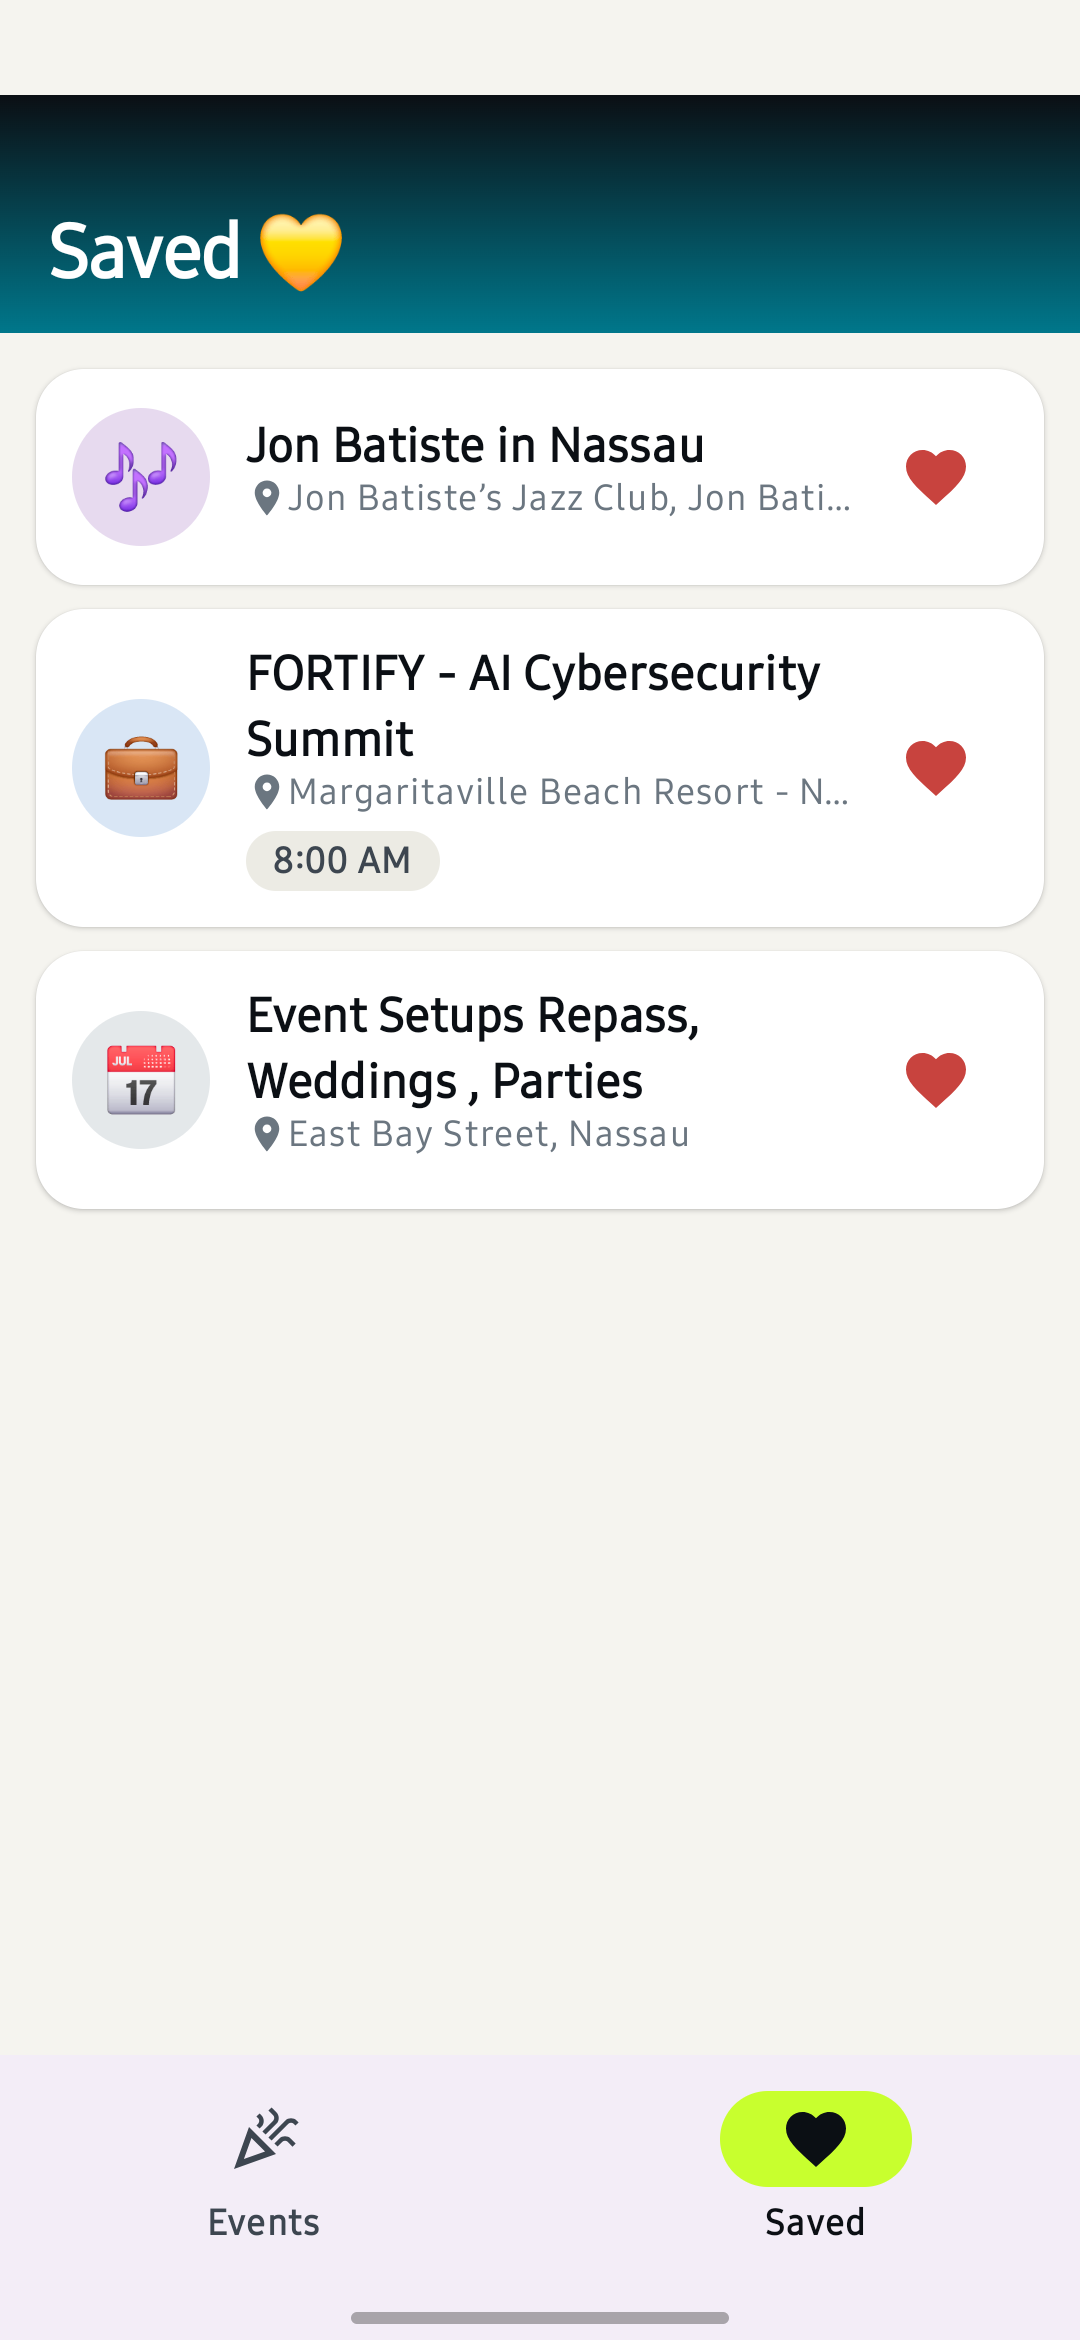
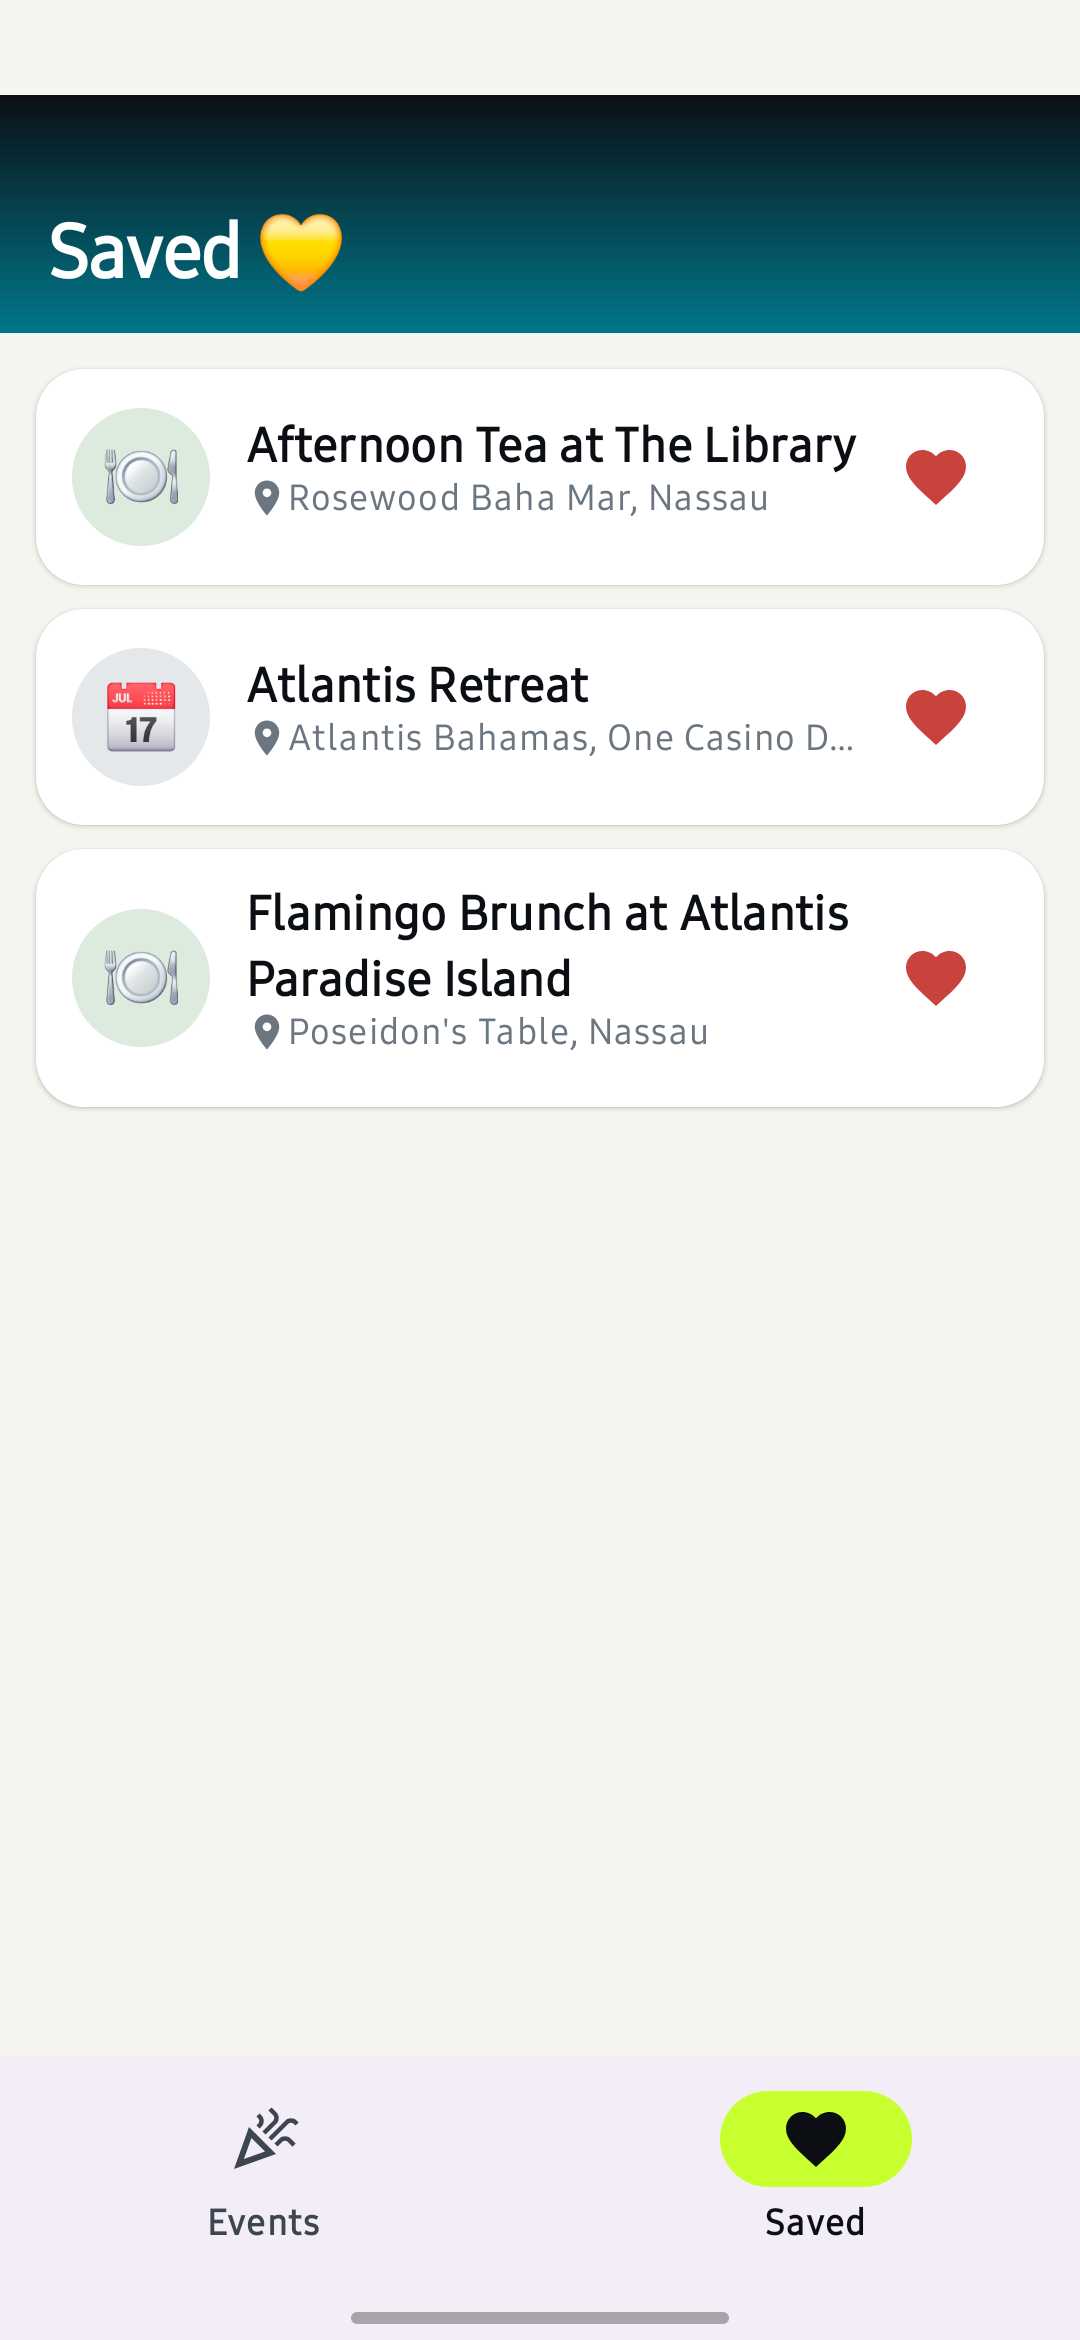
App v0.10.1 (code 14): detail page - venue row takes weight(1f) so the Directions button is no longer measured at zero width (its wrapped label stretched the row ~80 dp above and below the venue on every event, since v0.9.x); store screenshots retaken 2026-11-03 on the S24+ (Nassau feed, regatta det

diff --git a/zero_fomo/app/src/main/java/com/arctechnology/zerofomo/ui/detail/DetailScreen.kt b/zero_fomo/app/src/main/java/com/arctechnology/zerofomo/ui/detail/DetailScreen.kt
@@ -133,12 +133,17 @@ fun DetailScreen(
                 InfoRow(ev, Icons.Default.Schedule, label)
             }
             val locationTba = stringResource(R.string.detail_location_tba)
+            // The venue text must take weight(1f): without it a long venue fills
+            // the Row, the Directions button is measured at zero width, its label
+            // wraps one character per line and the invisible button stretches the
+            // row by ~80 dp above and below the venue (v0.10.0 detail-page gaps).
             Row(verticalAlignment = Alignment.CenterVertically) {
                 InfoRow(ev, Icons.Default.LocationOn,
                     listOfNotNull(
                         ev.venue.ifBlank { null },
                         ev.island?.displayName).joinToString(" · ")
-                        .ifBlank { locationTba })
+                        .ifBlank { locationTba },
+                    modifier = Modifier.weight(1f))
                 if (ev.venue.isNotBlank()) {
                     Spacer(Modifier.width(4.dp))
                     TextButton(onClick = {
@@ -292,8 +297,8 @@ private fun HeroHeader(
 
 @Composable
 private fun InfoRow(event: Event, icon: androidx.compose.ui.graphics.vector.ImageVector,
-                    text: String) {
-    Row(verticalAlignment = Alignment.CenterVertically,
+                    text: String, modifier: Modifier = Modifier) {
+    Row(modifier, verticalAlignment = Alignment.CenterVertically,
         horizontalArrangement = Arrangement.spacedBy(10.dp)) {
         Box(
             Modifier

diff --git a/docs/PLAY_CONSOLE_CHECKLIST.md b/docs/PLAY_CONSOLE_CHECKLIST.md
@@ -151,7 +151,7 @@ App, Free. Declarations: no ads; not designed for children; no government app.
 |---|---|
 | App icon 512×512 | `store/graphics/icon-512.png` |
 | Feature graphic 1024×500 | `store/graphics/feature-graphic-1024x500.png` |
-| Phone screenshots (4) | `store/graphics/screenshots/phone/` (Galaxy S24+, 1080×2340) |
+| Phone screenshots (4) | `store/graphics/screenshots/phone/` (Galaxy S24+, 1080×2340; retaken 2026-11-03 on v0.10.1: Nassau feed, regatta detail, weekend filter, Saved) |
 | Title | `store/listing/en-US/title.txt` |
 | Short description | `store/listing/en-US/short_description.txt` |
 | Full description | `store/listing/en-US/full_description.txt` |
@@ -224,11 +224,11 @@ Data types to declare (leave every other type unchecked):
 - [x] Listing copy (refreshed 2026-10-30 for v0.10.0: 46 markets across the
       Bahamas, Caribbean, Florida/Atlanta, Mexico and Central America; six
       languages; adaptive scope).
-- [x] v0.10.0 (versionCode 13) tagged 2026-10-30 -> CI signed AAB on the GitHub
-      Release (first upload is by hand; see §8).
-- [x] Phone screenshots (4, Galaxy S24+, 1080×2340) retaken 2026-09-16 on
-      v0.9.0 with the Bahamas country theme (Nassau feed, detail, weekend
-      filter, saved); status bar strip flattened.
+- [x] v0.10.1 (versionCode 14) tagged 2026-11-03 -> CI signed AAB on the GitHub
+      Release (first upload is by hand; see §8). Supersedes v0.10.0.
+- [x] Phone screenshots (4, Galaxy S24+, 1080×2340) retaken 2026-11-03 on
+      v0.10.1 with the Bahamas country theme (Nassau feed, regatta detail,
+      weekend filter, Saved with three hearted events); status bar strip flattened.
 - [x] Privacy page + Data safety answers cover "Send to 0 FOMO" (2026-09-16).
 - [ ] Crash reporting (Crashlytics) — not required for submission; planned before
       the 50 % rollout step.
